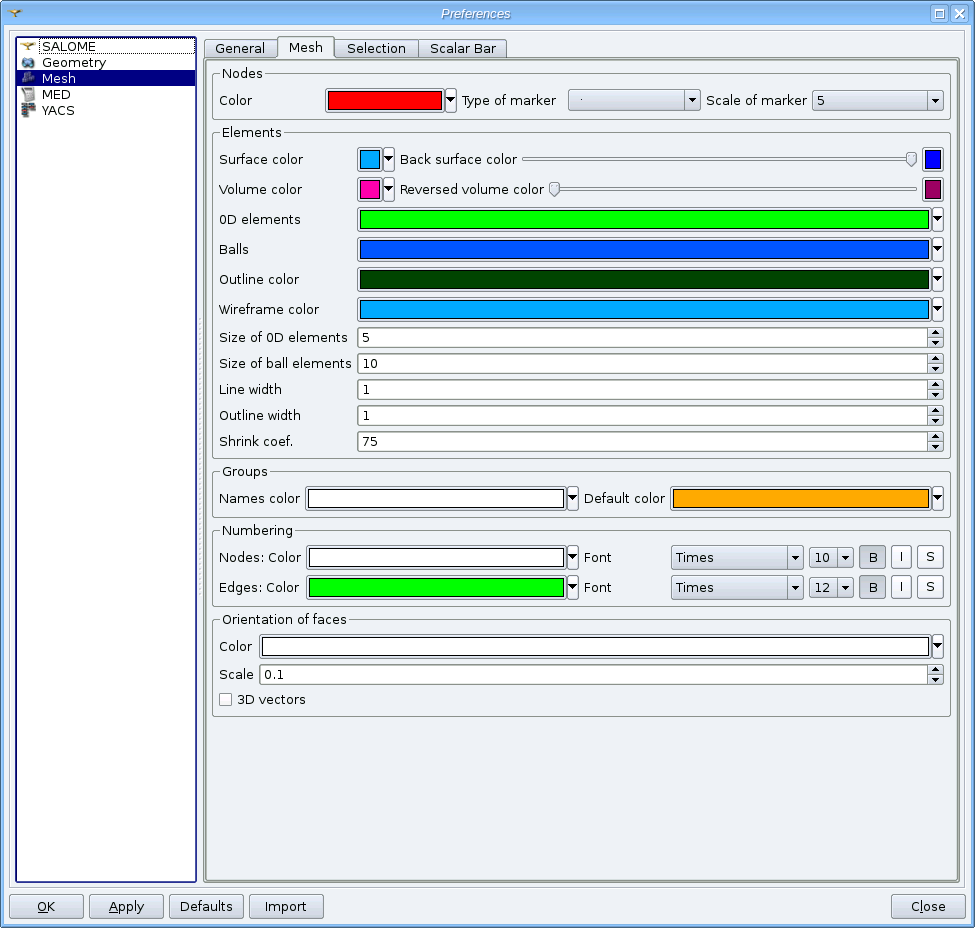
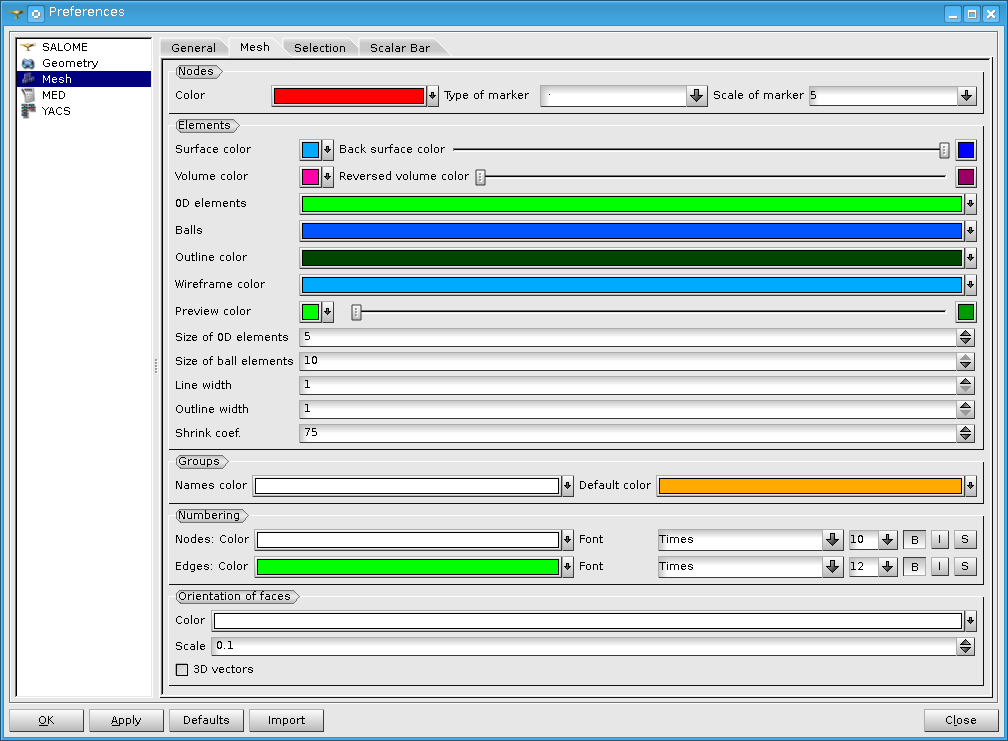
Implementation of the "0022102: EDF 1496 SMESH : Displaying of discrete elements in SMESH relating to their attribute (diameter)" issue.

diff --git a/src/SMESHGUI/SMESH_msg_en.ts b/src/SMESHGUI/SMESH_msg_en.ts
@@ -4303,6 +4303,10 @@ Please, create VTK viewer and try again</translation>
         <translation>Surface color</translation>
     </message>
     <message>
+        <source>PREF_PREVIEW_COLOR</source>
+        <translation>Preview color</translation>
+    </message>
+    <message>
         <source>PREF_NOTIFY_MODE</source>
         <translation>Show a computation result notification</translation>
     </message>

diff --git a/src/SMESHGUI/SMESHGUI_AddMeshElementDlg.h b/src/SMESHGUI/SMESHGUI_AddMeshElementDlg.h
@@ -64,7 +64,6 @@ namespace SMESH
 class SMESHGUI_EXPORT SMESHGUI_AddMeshElementDlg : public QDialog
 { 
   Q_OBJECT
-
 public:
   SMESHGUI_AddMeshElementDlg( SMESHGUI*, SMDSAbs_EntityType = SMDSEntity_Edge );
   ~SMESHGUI_AddMeshElementDlg();
@@ -119,6 +118,7 @@ private:
   
 protected slots:
   virtual void                reject();
+          void                onDiameterChanged();
 
 private slots:
   void                        ClickOnOk();

diff --git a/src/OBJECT/SMESH_SVTKActor.h b/src/OBJECT/SMESH_SVTKActor.h
@@ -68,12 +68,15 @@ public:
   void
   RemoveFromRender(vtkRenderer* theRendere);
 
+  void SetVisualObject(TVisualObjPtr theVisualObj);
+
  protected:
   SVTK_DeviceActor* my0DActor;
   SVTK_DeviceActor* myBallActor;
 
   vtkUnstructuredGrid* my0DGrid;
   vtkUnstructuredGrid* myBallGrid;
+  TVisualObjPtr myVisualObj;
   
   SMESH_SVTKActor();
   virtual ~SMESH_SVTKActor();

diff --git a/src/OBJECT/SMESH_DeviceActor.h b/src/OBJECT/SMESH_DeviceActor.h
@@ -144,6 +144,7 @@ class SMESHOBJECT_EXPORT SMESH_DeviceActor: public vtkLODActor{
   bool IsImplicitFunctionUsed() const{ return myIsImplicitFunctionUsed;}
 
   void SetMarkerEnabled( bool );
+  void SetBallEnabled( bool );
   void SetMarkerStd( VTK::MarkerType, VTK::MarkerScale );
   void SetMarkerTexture( int, VTK::MarkerTexture );
   VTK::MarkerType GetMarkerType();

diff --git a/src/OBJECT/SMESH_ActorDef.h b/src/OBJECT/SMESH_ActorDef.h
@@ -259,9 +259,6 @@ class SMESH_ActorDef : public SMESH_Actor
   vtkProperty* myOutLineProp;
   vtkProperty* myPreselectProp;
 
-  vtkProperty* myBallHighlightProp;
-  vtkProperty* myBallPreselectProp;
-          
   SMESH_DeviceActor* myHighlitableActor;
 
   eControl myControlMode;
